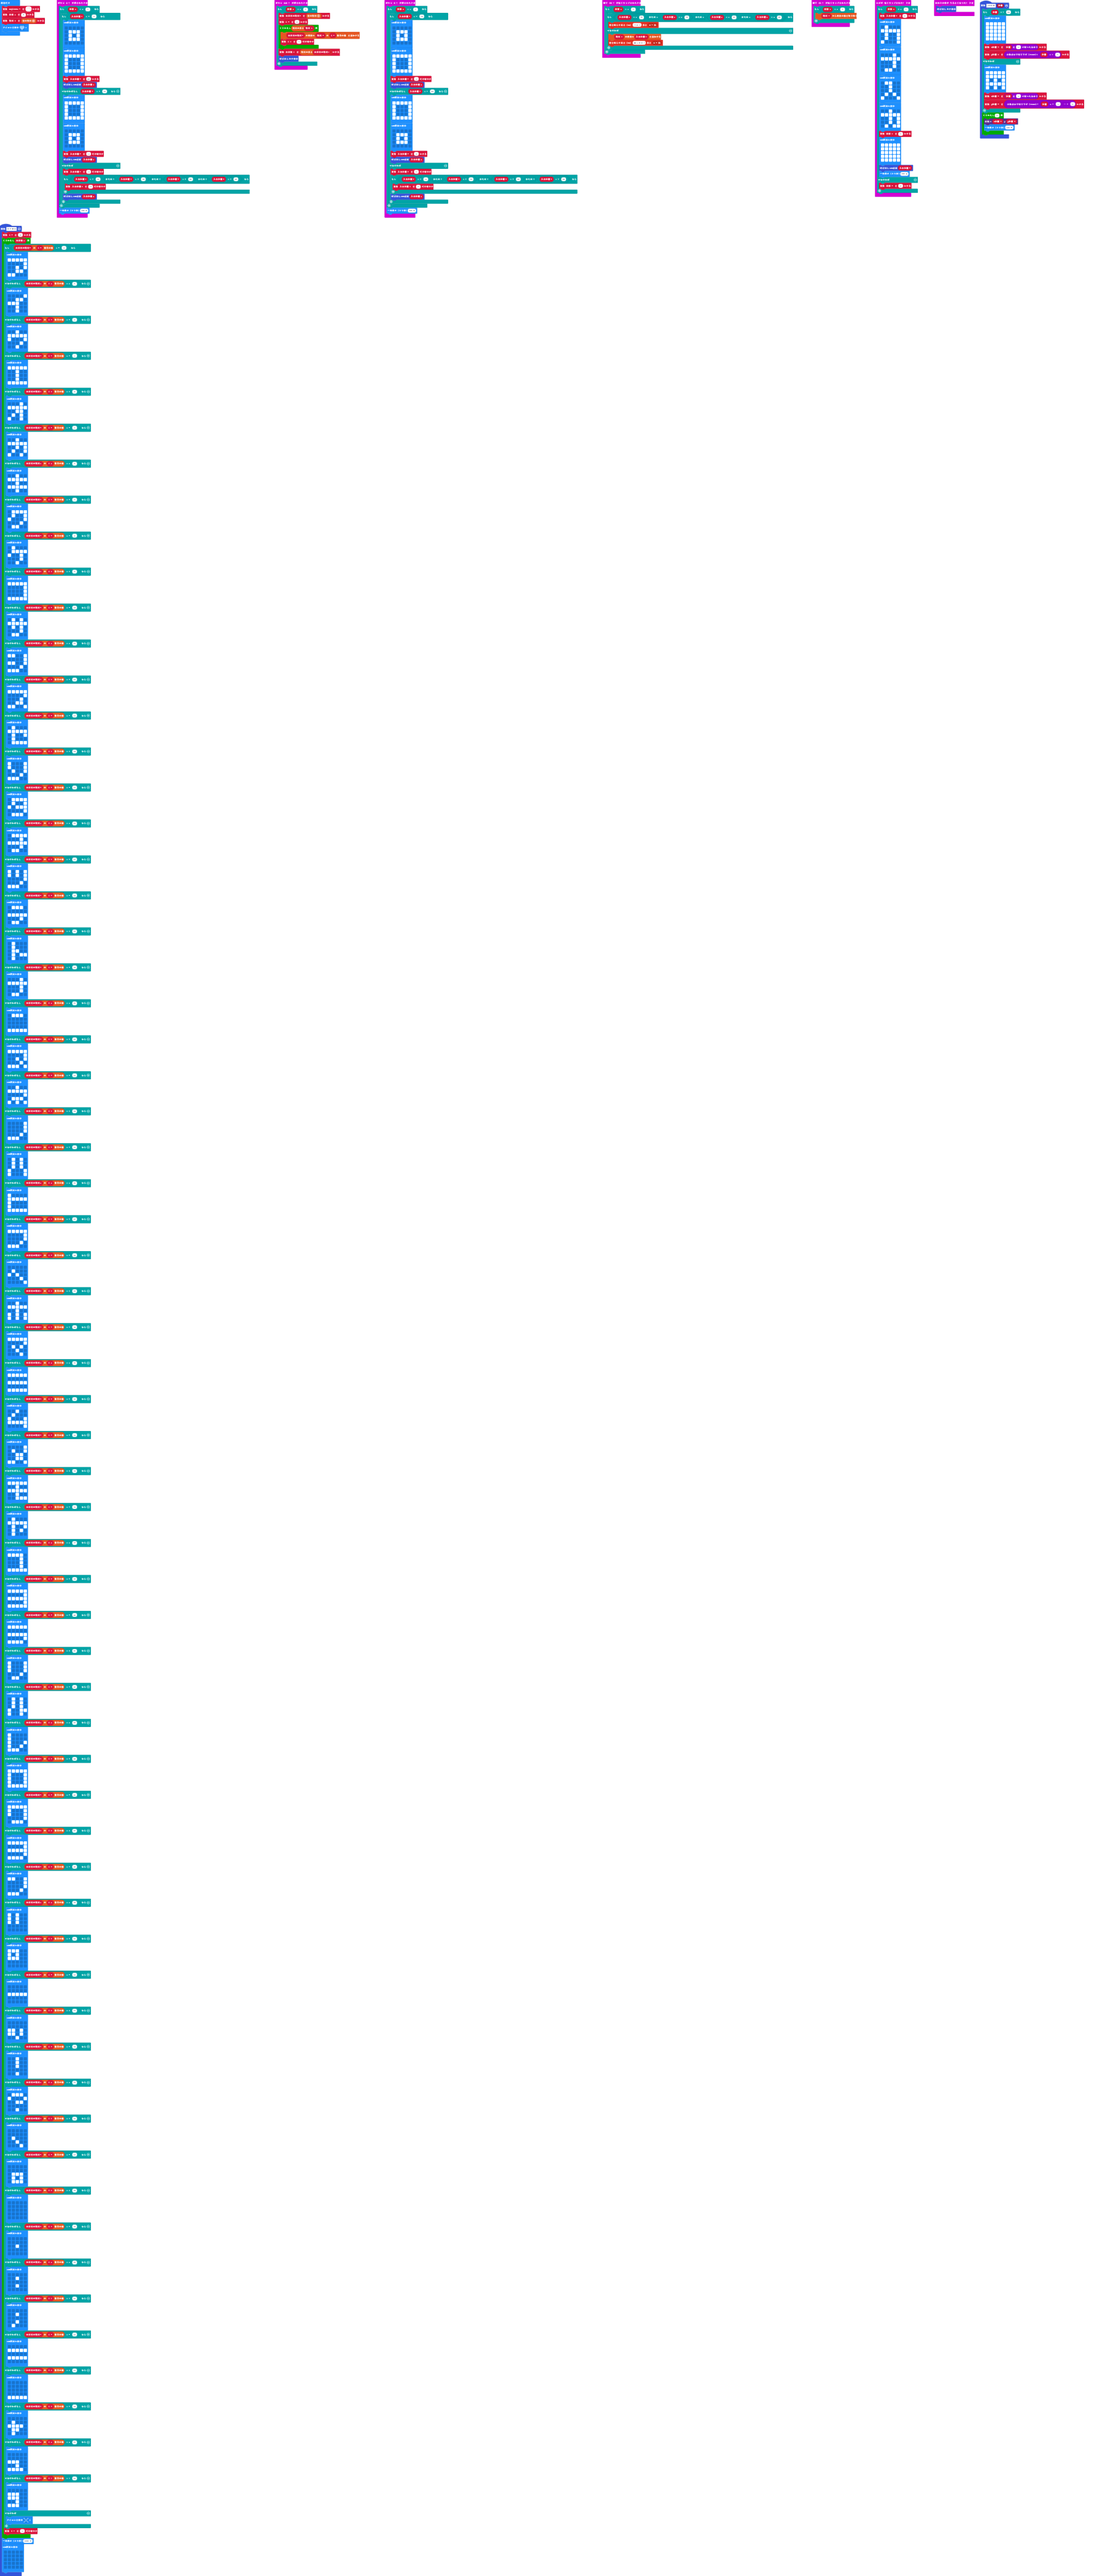
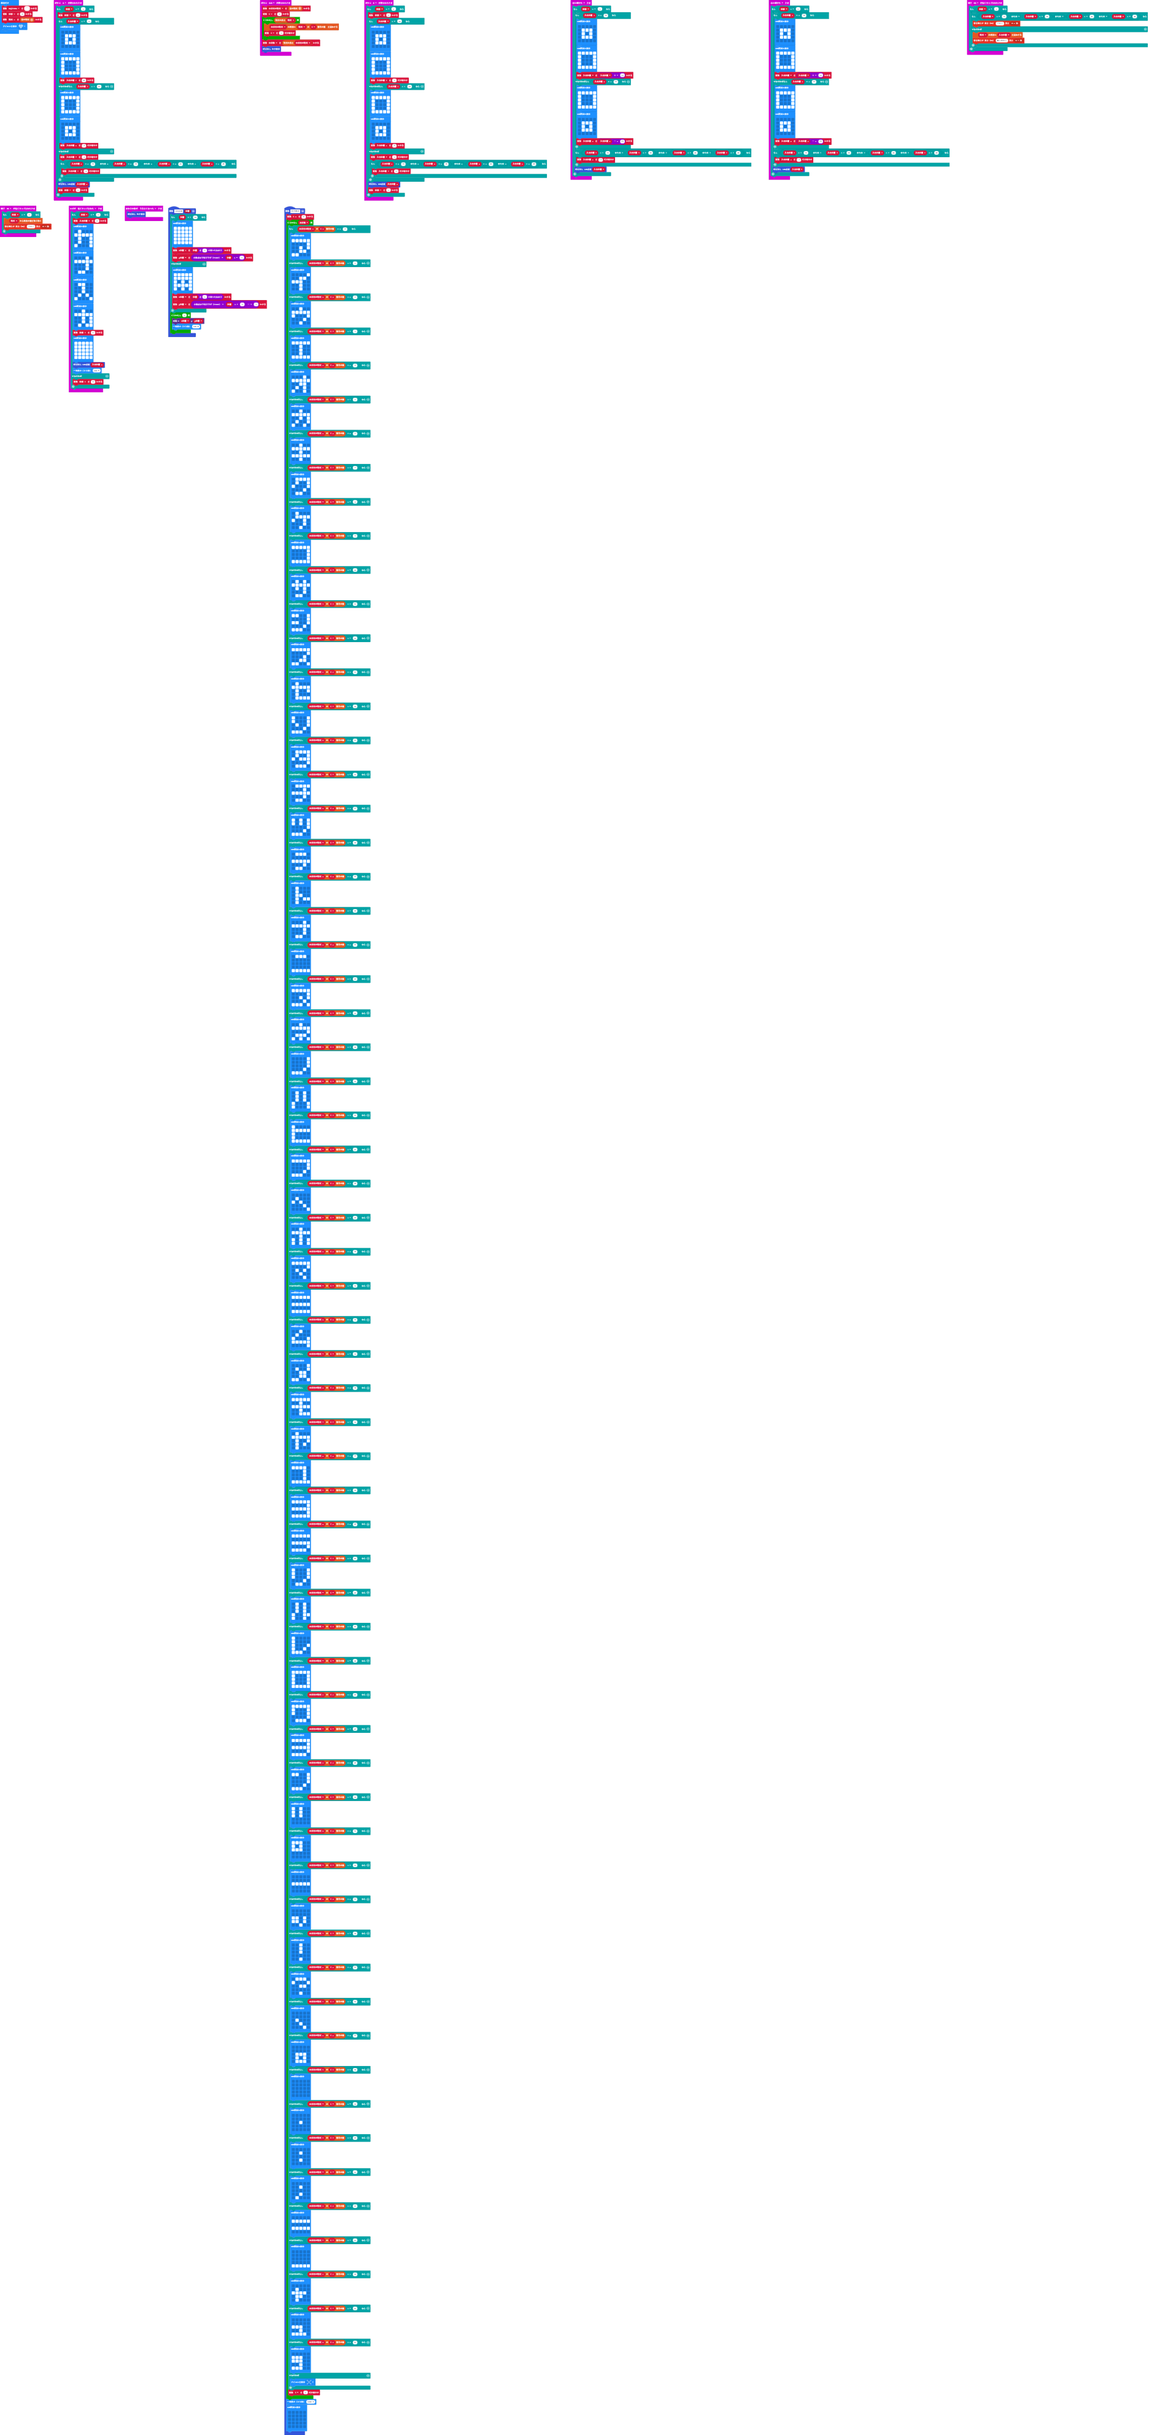
更新 main.blocks, main.ts

Changed region(s): [[0.2154, 0.0, 0.9849, 1.0], [0.0, 0.0, 0.2154, 1.0]]

diff --git a/main.ts b/main.ts
@@ -8,8 +8,50 @@ input.onPinPressed(TouchPin.P0, function () {
         }
     }
 })
+input.onGesture(Gesture.TiltRight, function () {
+    if (状態 == 1) {
+        if (入力位置 <= 24) {
+            basic.showLeds(`
+                . . . . .
+                . # # # .
+                . # . # .
+                . # # # .
+                . . . . .
+                `)
+            basic.showLeds(`
+                # # # # #
+                # . . . #
+                # . . . #
+                # . . . #
+                # # # # #
+                `)
+            入力位置 = 入力位置 + 25
+        } else if (入力位置 >= 25) {
+            basic.showLeds(`
+                # # # # #
+                # . . . #
+                # . . . #
+                # . . . #
+                # # # # #
+                `)
+            basic.showLeds(`
+                . . . . .
+                . # # # .
+                . # . # .
+                . # # # .
+                . . . . .
+                `)
+            入力位置 = 入力位置 - 25
+        }
+        if (入力位置 == 36 || 入力位置 == 38 || (入力位置 == 46 || 入力位置 == 48)) {
+            入力位置 += -1
+        }
+        LED点滅(入力位置)
+    }
+})
 input.onButtonPressed(Button.A, function () {
     if (状態 == 1) {
+        状態 = 2
         if (入力位置 == 0) {
             basic.showLeds(`
                 . . . . .
@@ -26,7 +68,6 @@ input.onButtonPressed(Button.A, function () {
                 # # # # #
                 `)
             入力位置 = 49
-            LED点滅(入力位置)
         } else if (入力位置 == 25) {
             basic.showLeds(`
                 # # # # #
@@ -43,16 +84,56 @@ input.onButtonPressed(Button.A, function () {
                 . . . . .
                 `)
             入力位置 += -1
-            LED点滅(入力位置)
         } else {
             入力位置 += -1
             if (入力位置 == 36 || 入力位置 == 38 || (入力位置 == 46 || 入力位置 == 48)) {
                 入力位置 += -1
             }
-            LED点滅(入力位置)
         }
+        LED点滅(入力位置)
+        状態 = 1
     }
-    basic.pause(200)
+})
+input.onGesture(Gesture.TiltLeft, function () {
+    if (状態 == 1) {
+        if (入力位置 <= 24) {
+            basic.showLeds(`
+                . . . . .
+                . # # # .
+                . # . # .
+                . # # # .
+                . . . . .
+                `)
+            basic.showLeds(`
+                # # # # #
+                # . . . #
+                # . . . #
+                # . . . #
+                # # # # #
+                `)
+            入力位置 = 入力位置 + 25
+        } else if (入力位置 >= 25) {
+            basic.showLeds(`
+                # # # # #
+                # . . . #
+                # . . . #
+                # . . . #
+                # # # # #
+                `)
+            basic.showLeds(`
+                . . . . .
+                . # # # .
+                . # . # .
+                . # # # .
+                . . . . .
+                `)
+            入力位置 = 入力位置 - 25
+        }
+        if (入力位置 == 36 || 入力位置 == 38 || (入力位置 == 46 || 入力位置 == 48)) {
+            入力位置 += -1
+        }
+        LED点滅(入力位置)
+    }
 })
 input.onSound(DetectedSound.Loud, function () {
     カナ表示()
@@ -85,19 +166,18 @@ function LED点滅 (位置: number) {
     }
 }
 input.onButtonPressed(Button.AB, function () {
-    if (状態 == 1) {
-        文字列の配列 = []
-        i = 0
-        for (let index = 0; index < 配列.length; index++) {
-            文字列の配列.push(配列[i])
-            i += 1
-        }
-        文字数 = 文字列の配列.length
-        カナ表示()
+    文字列の配列 = []
+    i = 0
+    for (let index = 0; index < 配列.length; index++) {
+        文字列の配列.push(配列[i])
+        i += 1
     }
+    文字数 = 文字列の配列.length
+    カナ表示()
 })
 input.onButtonPressed(Button.B, function () {
     if (状態 == 1) {
+        状態 = 2
         if (入力位置 == 24) {
             basic.showLeds(`
                 . . . . .
@@ -114,7 +194,6 @@ input.onButtonPressed(Button.B, function () {
                 # # # # #
                 `)
             入力位置 += 1
-            LED点滅(入力位置)
         } else if (入力位置 == 49) {
             basic.showLeds(`
                 # # # # #
@@ -131,20 +210,20 @@ input.onButtonPressed(Button.B, function () {
                 . . . . .
                 `)
             入力位置 = 0
-            LED点滅(入力位置)
         } else {
             入力位置 += 1
             if (入力位置 == 36 || 入力位置 == 38 || (入力位置 == 46 || 入力位置 == 48)) {
                 入力位置 += 1
             }
-            LED点滅(入力位置)
         }
+        LED点滅(入力位置)
+        状態 = 1
     }
-    basic.pause(200)
 })
 input.onPinPressed(TouchPin.P1, function () {
     if (状態 == 1) {
         配列.pop()
+        music.playTone(131, music.beat(BeatFraction.Double))
     }
 })
 input.onLogoEvent(TouchButtonEvent.Pressed, function () {
